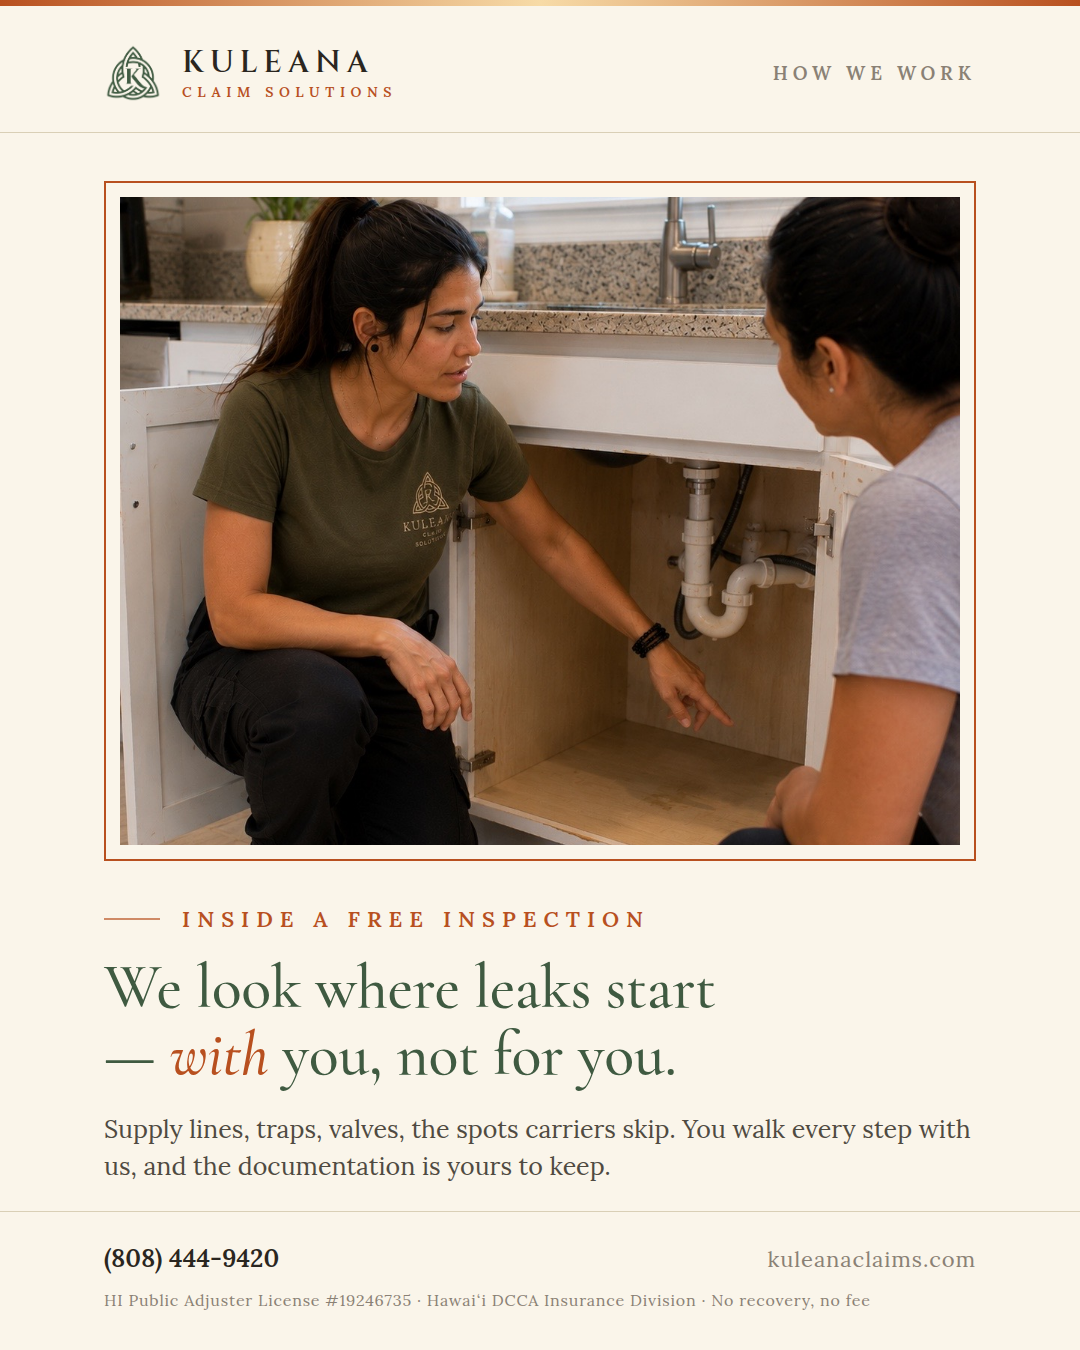
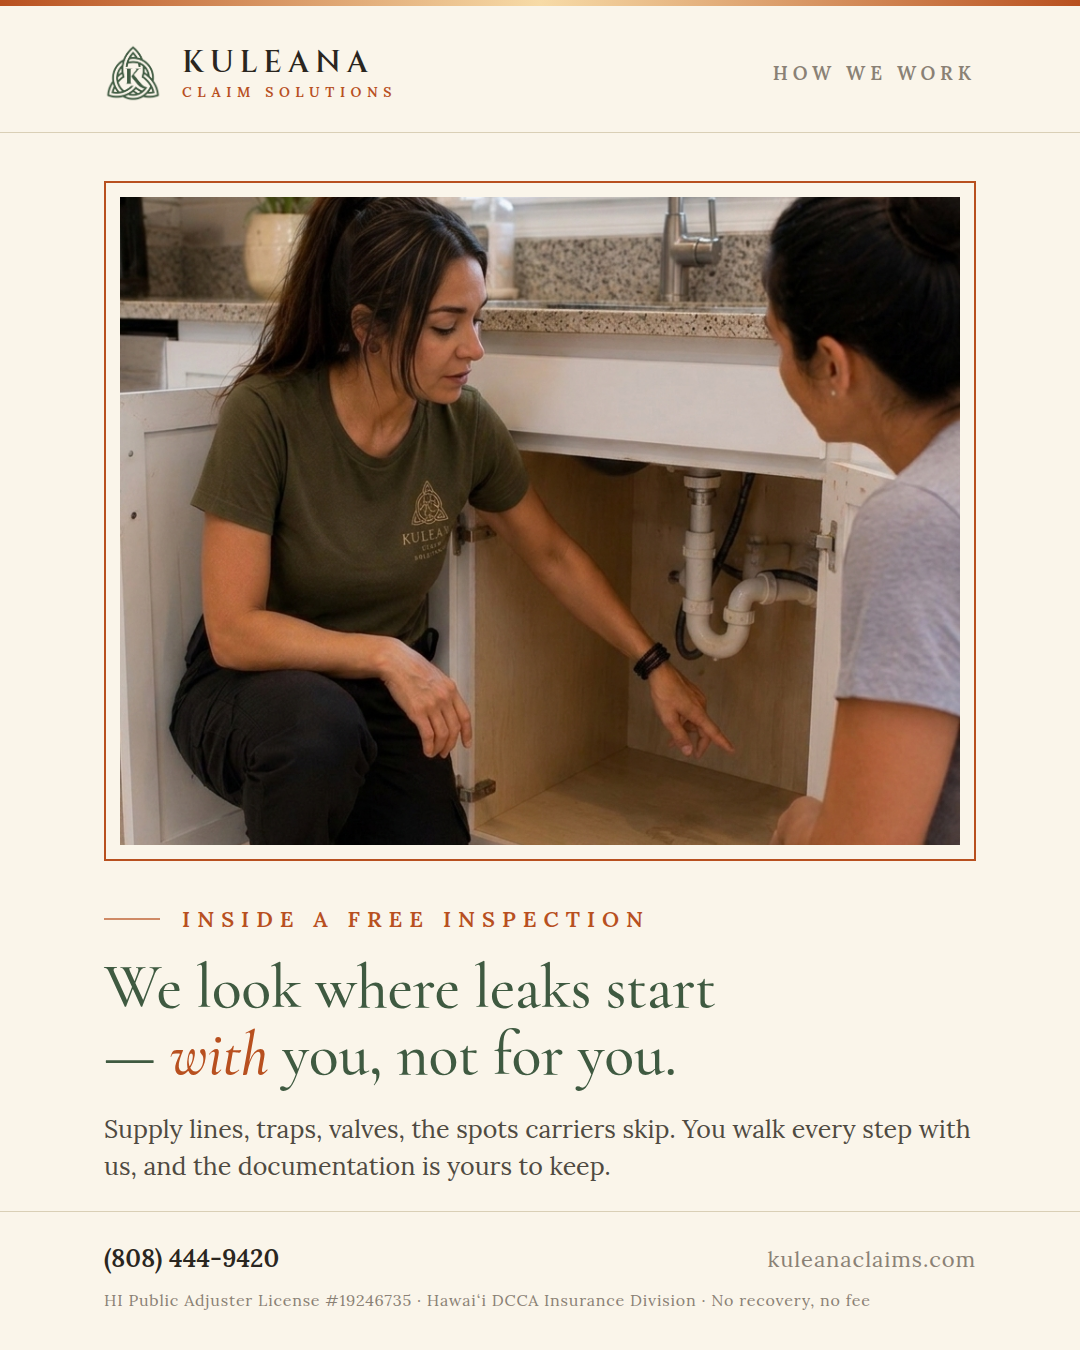
Put Caren's likeness on the inspection post
Replaces the adjuster's face in post 22 with Caren's, using her trained
identity model as the reference; original photo retained alongside.

Claude-Session: https://claude.ai/code/session_012ermQFeXKetnBLvQfiukPr

diff --git a/instagram/kuleana-instagram-posts.html b/instagram/kuleana-instagram-posts.html
@@ -904,7 +904,7 @@ POST 22 · Photo post — real inspection (Caren's photo)
     <div class="head-right">How We Work</div>
   </header>
   <div class="photo-frame" style="height: 680px;">
-    <img src="img/library-inspection.jpg" alt="Kuleana adjuster walking a homeowner through an under-sink inspection" width="948" height="648" style="object-position: 50% 32%;" />
+    <img src="img/library-inspection-caren.png" alt="Kuleana adjuster walking a homeowner through an under-sink inspection" width="948" height="648" style="object-position: 50% 30%;" />
   </div>
   <div class="photo-body">
     <div class="eyebrow">Inside a Free Inspection</div>

diff --git a/instagram/captions.md b/instagram/captions.md
@@ -249,9 +249,13 @@ next rain finds the damage first.
 
 ### 22 · Inside a free inspection — `posts/22-photo-inspection.png`
 
-Uses Caren's real inspection photo (uploaded from her iPad — authentic, no
-AI disclosure needed). Strongest trust post in the set; good pin candidate
-alongside 01.
+Uses the inspection photo uploaded from Caren's iPad, with the adjuster's
+face replaced with Caren's likeness (via her trained "Caren" identity model)
+at her request. Because the image is an AI-edited composite, treat it as
+brand imagery rather than a documentary photo — if asked, be upfront that
+it's a staged brand photo. Strongest trust post in the set; good pin
+candidate alongside 01. Original unedited photo kept at
+`img/library-inspection.jpg`.
 
 **Caption:**
 This is what a free inspection actually looks like. We check the places leaks
